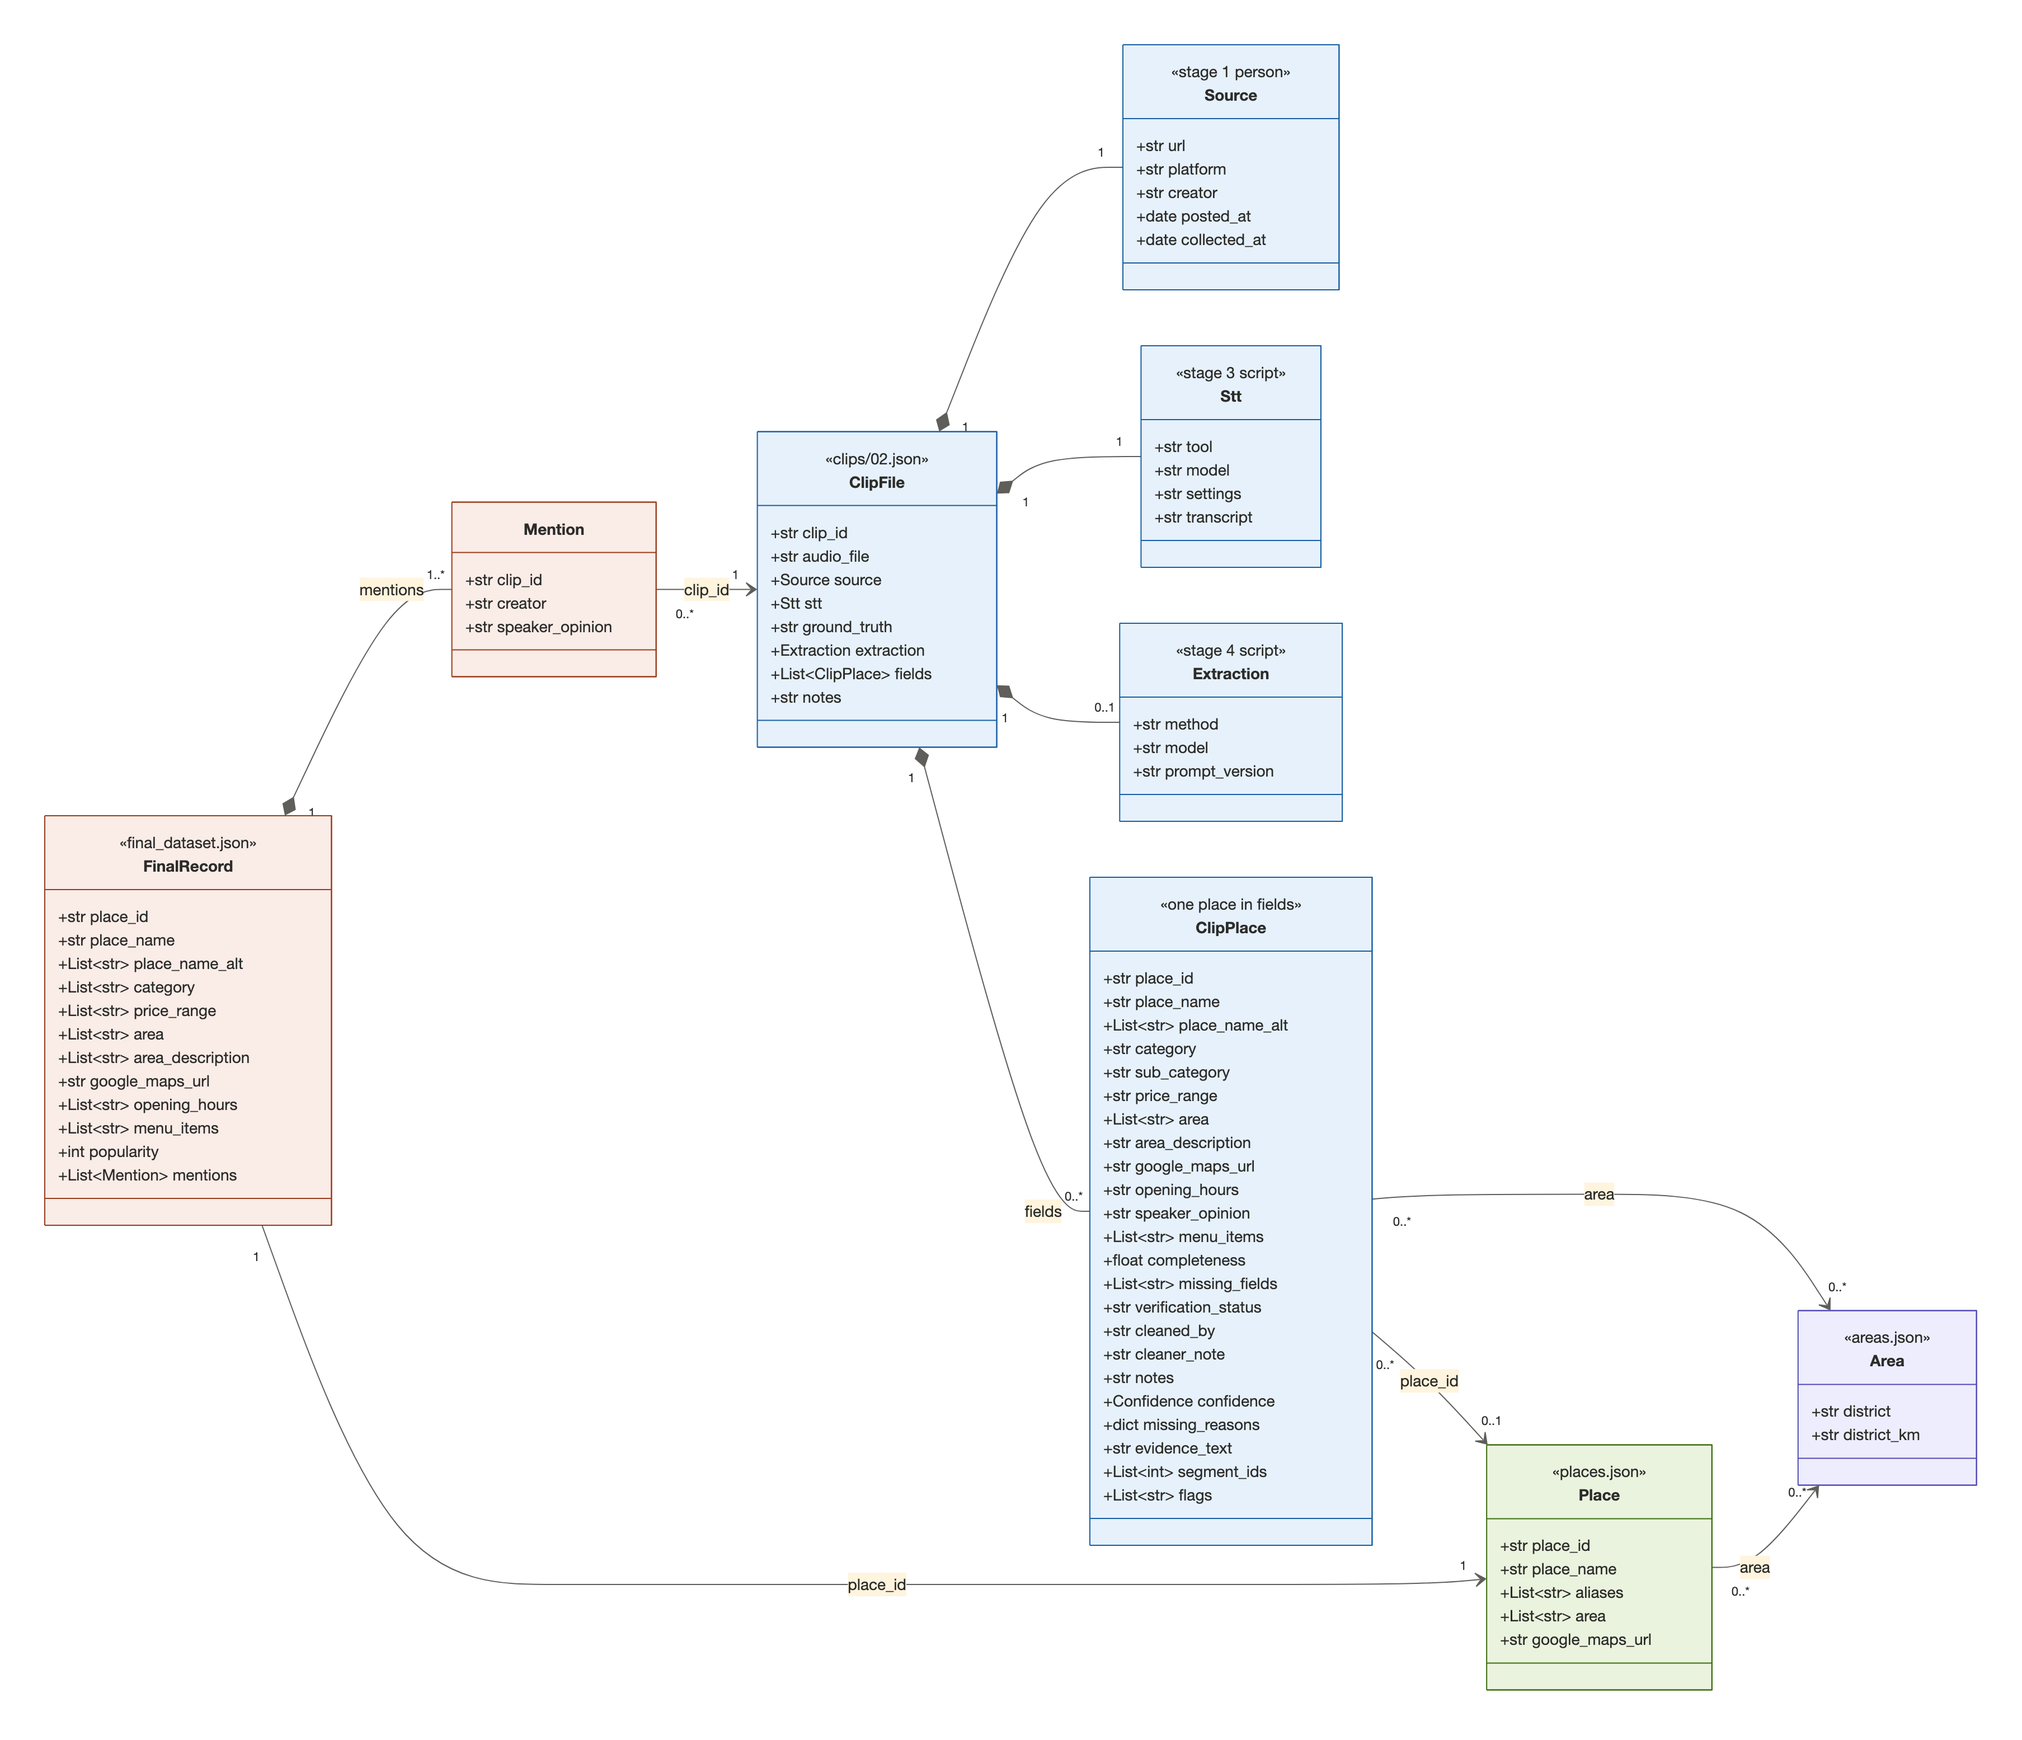
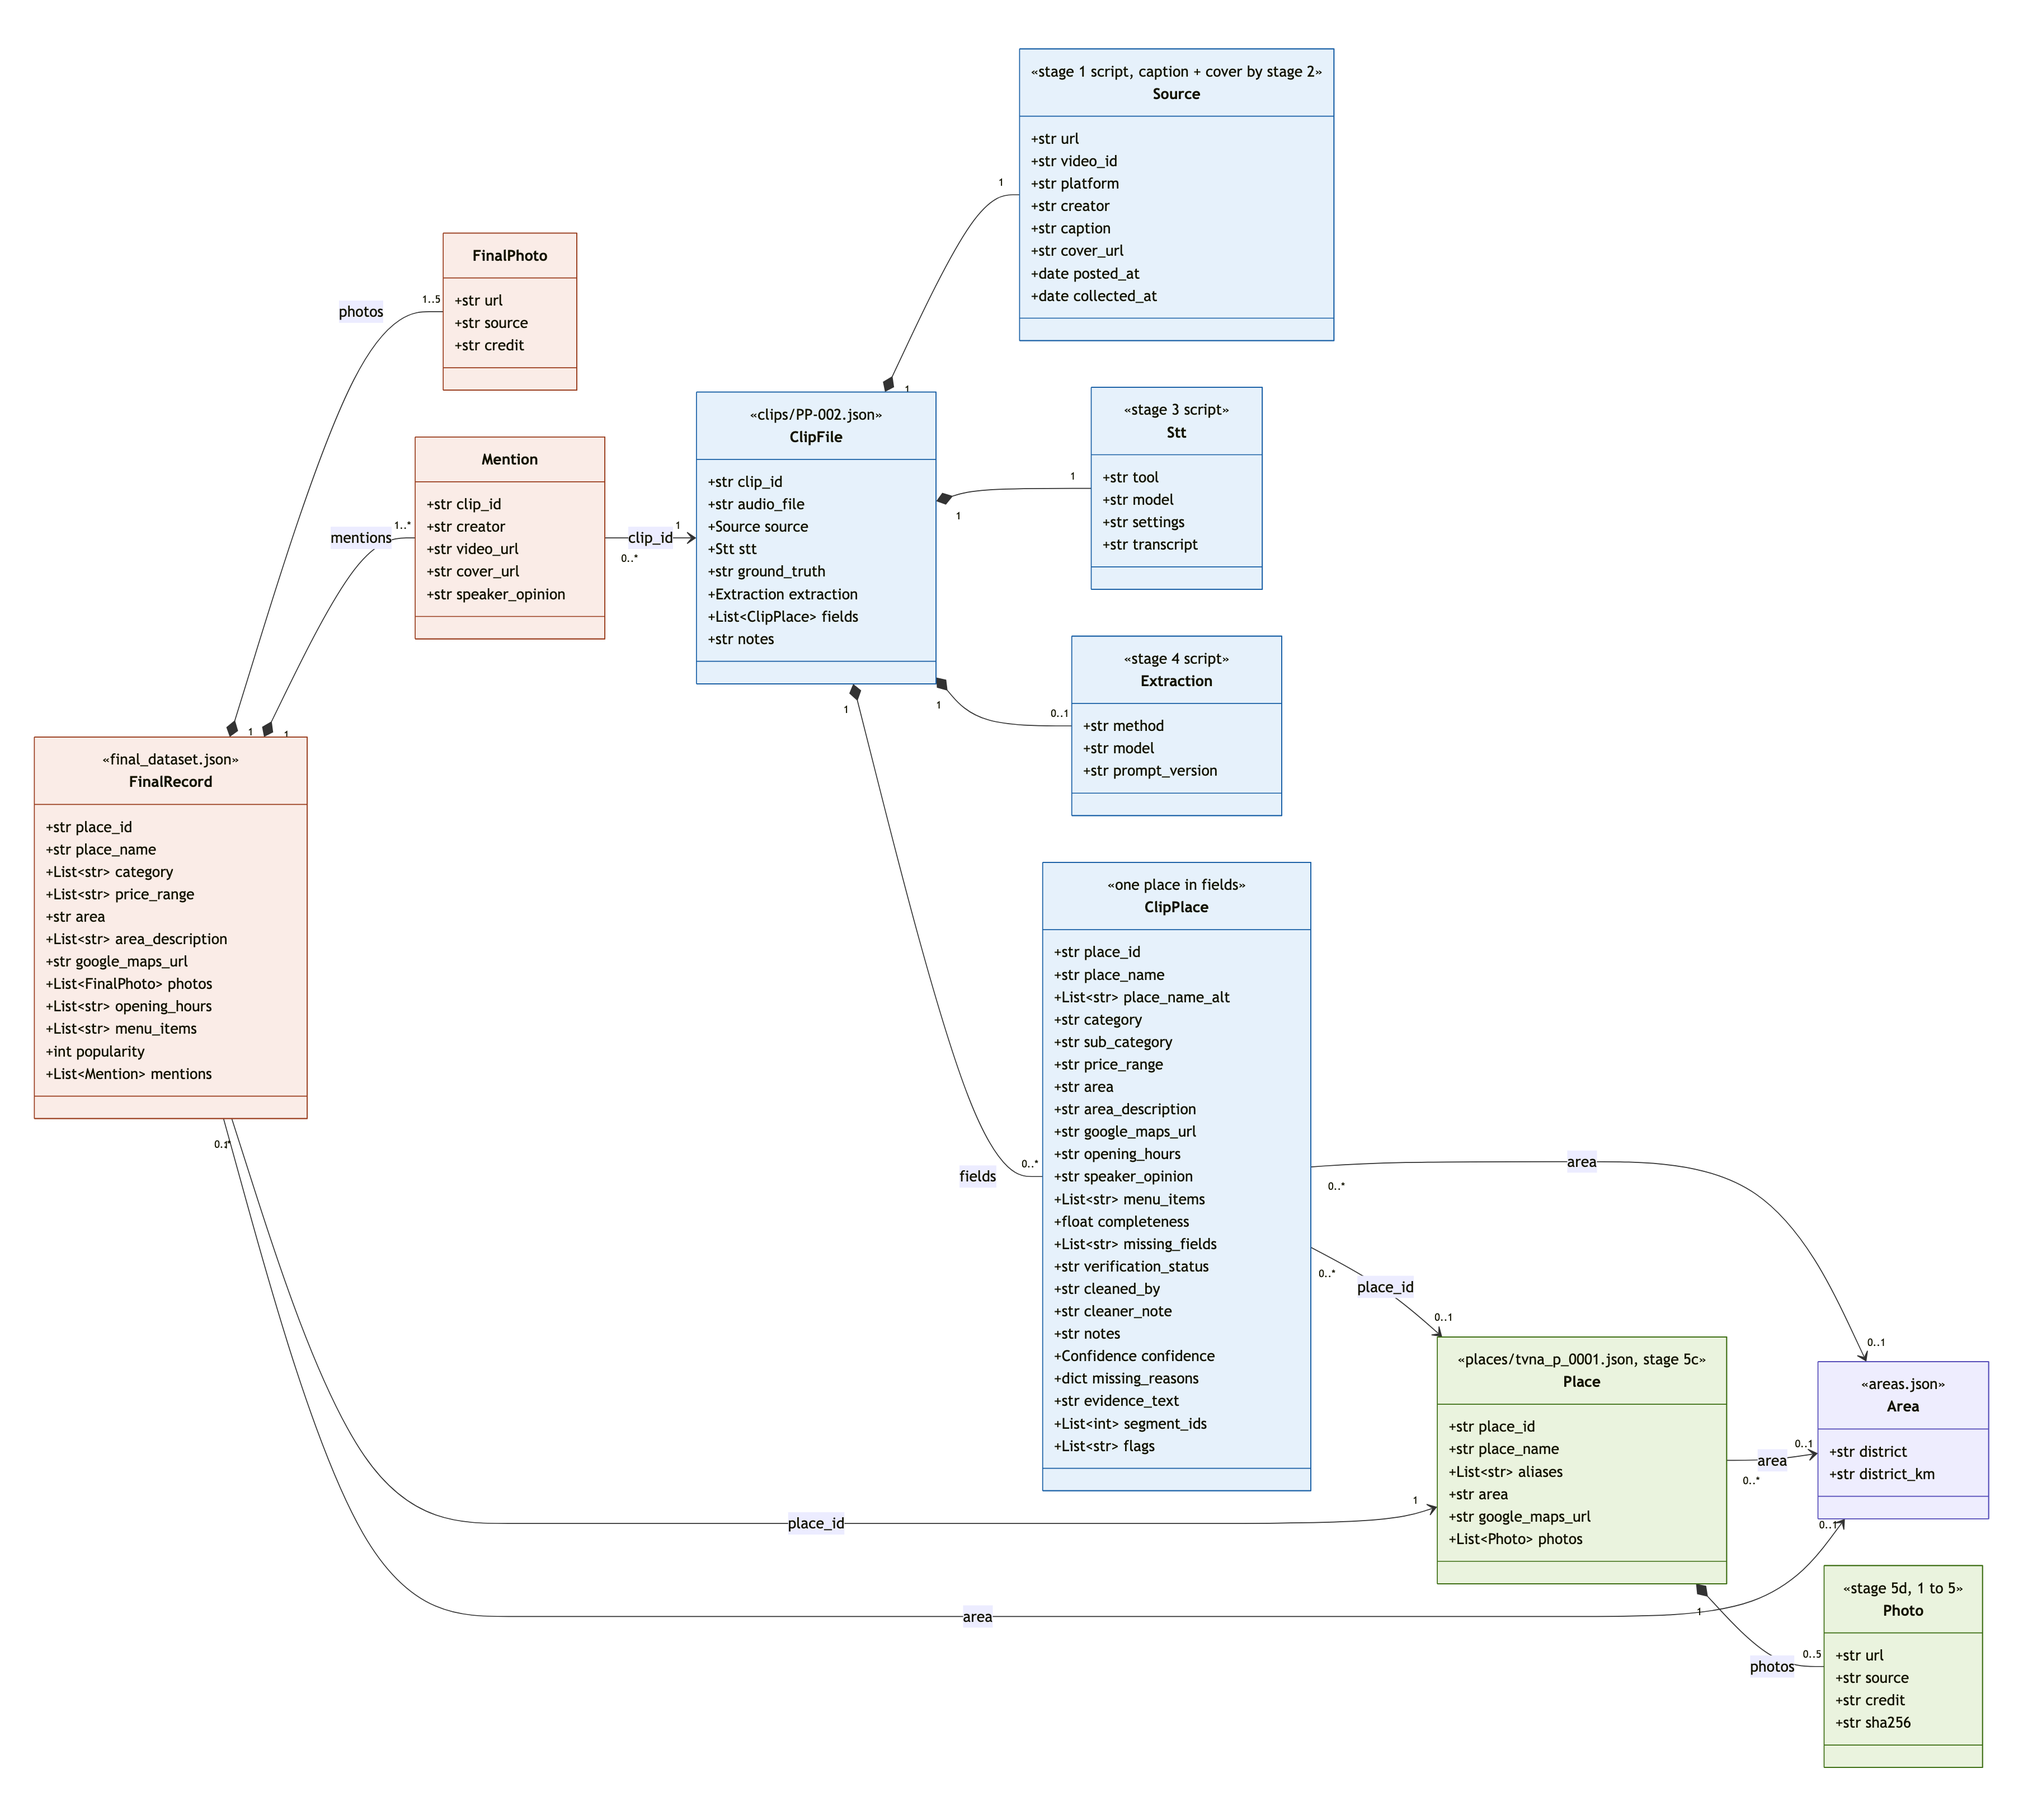
Docs: export the overview and data model pictures again (place files, 5d photos, covers)

diff --git a/docs/tvna_field_guide.md b/docs/tvna_field_guide.md
@@ -412,4 +412,4 @@ Empty templates (in `templates/`): `tvna_clip_template.json`, `tvna_clip_place_t
 - **Branches:** a place has one `google_maps_url`, even with several branches (5c keeps the first link; other branches' links stay only in their clips). Every file keeps one district per place (`area` is text). **Capstone 2:** one place, many branches, each with its own district and Maps link, all shown on the website. Needs the website team's OK (changes the place files and final_dataset.json).
 - **Known names as hints for Gemini (Capstone 2):** save the team's fixes, give known place names to Gemini in stage 4, and score its accuracy. Until then the team links different names in 5b (section 6).
 - **STT script** (outside this repo, in the capstone folder): `audio-text/test/test_gemini.py` still writes the old format (`source.timestamp`, file `<name>_gemini.json`), not the clip template.
-- **Older docs:** the Google Doc "TVNA Data Pipeline" may not match this guide. The diagram sources in `docs/` (`tvna_data_model.mmd`, `tvna_pipeline_overview.html`) were updated on 2026-11-28 (place files, photos, covers); the two `.png` pictures are older and still need re-exporting.
+- **Older docs:** the Google Doc "TVNA Data Pipeline" may not match this guide. The diagram sources in `docs/` (`tvna_data_model.mmd`, `tvna_pipeline_overview.html`) were updated on 2026-11-28 (place files, photos, covers), and the two `.png` pictures were exported from them the same day.

diff --git a/README.md b/README.md
@@ -725,4 +725,4 @@ Only `verified` places with a `place_id` **and at least 1 photo** are published 
 - [`docs/tvna_pipeline_explained.md`](docs/tvna_pipeline_explained.md): the whole pipeline explained for the supervisor: each stage (input, output, when it continues), statuses, folders, key takeaways, limits.
 - [`docs/tvna_field_guide.md`](docs/tvna_field_guide.md): every field, who fills it, value rules, category list.
 - [`docs/decisions.md`](docs/decisions.md): key decisions and why.
-- [`docs/tvna_data_model.mmd`](docs/tvna_data_model.mmd): how the JSON files connect (the `.png` picture is older: it still shows `places.json`, `place_name_alt` in the final dataset, many districts per place and no photos).
+- [`docs/tvna_data_model.mmd`](docs/tvna_data_model.mmd): how the JSON files connect (picture: `docs/tvna_data_model.png`; overview picture: `docs/tvna_pipeline_overview.png`, from `docs/tvna_pipeline_overview.html`).
